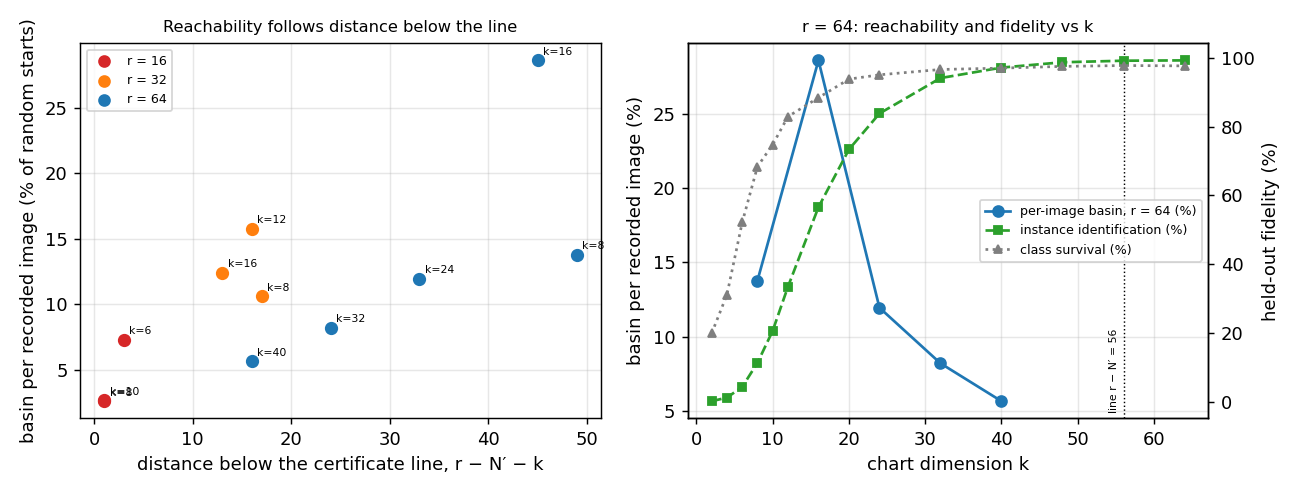
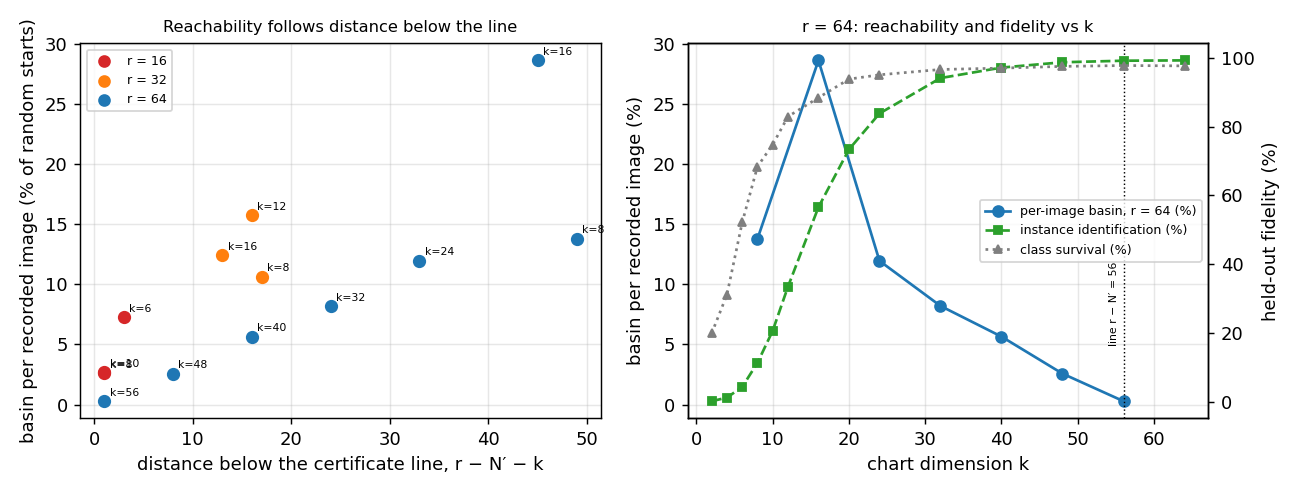
Ladder complete at r=64: k=56 (one below) 0.3% per image, 4/7; figure re-rendered

diff --git a/experiments/exact_inversion/RESULTS.md b/experiments/exact_inversion/RESULTS.md
@@ -2027,6 +2027,7 @@ raw-digit case has no certificate zero — Step 22), Adam (no certificate), or a
 
 | 64 | 40 | 8 | 56 | 16 | 45.2% | 5.7% | 8/8 | .97 | .97 |
 | 64 | 48 | 8 | 56 | 8 | 20.6% | 2.6% | 8/8 | .975 | .99 |
+| 64 | 56 | 7 | 57 | 1 | 2.0% | 0.3% | 4/7 | .978 | .99 |
 
 **The mirror pair (equal slack, different `k`):** `r = 32, k = 8` (17 below) has a per-image basin of 10.6%;
 `r = 64, k = 40` (16 below) 5.7%. So at held distance, 32 more unknowns cost about 2× in basin — distance
@@ -2039,7 +2040,9 @@ construction — so the declining per-image basin (13.8 → 28.6 → 11.9 → 8.
 either; the attribution is carried by the fixed-`k` arm and the mirror pair, which varied one at a time, and the
 series is consistent with them, not evidence for them. What the series *does* show: **every cell in the admissible
 range finds all recorded images with the argmin correct** — from `k = 8` at 13.8% per image to `k = 48` at 2.6% —
-so at `r = 64` the entire admissible chart range is attackable and only the *cost* varies, a factor of five,
+so at `r = 64` the admissible chart range up to `k = 48` is attackable and only the *cost* varies, a factor of five
+(at `k = 56`, one below the line, the basin collapses to 0.3% per image and 4 of 7 are found — the same one-below
+collapse the fixed-`k` arm showed at rank 16),
 against a fidelity that climbs from class-only (.11 instance id) to .99. There is no dimension in that range
 where the attacker is stopped, only ones where they must buy more starts. (The `k = 16` point has `N′ = 3`
 against seven or eight elsewhere — a coarse estimate, not to carry weight either way.) At `r = 32` the admissible
